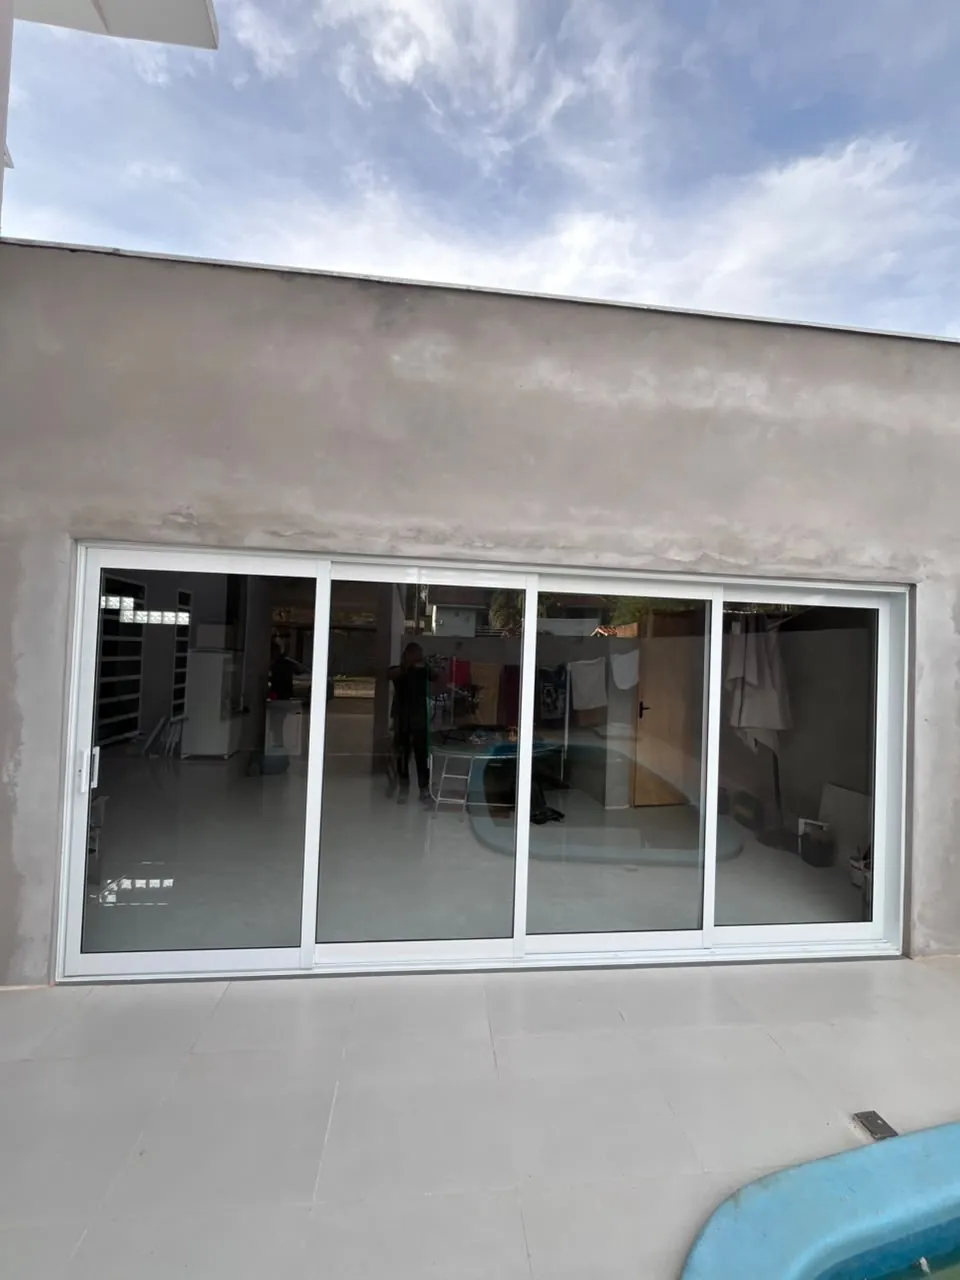
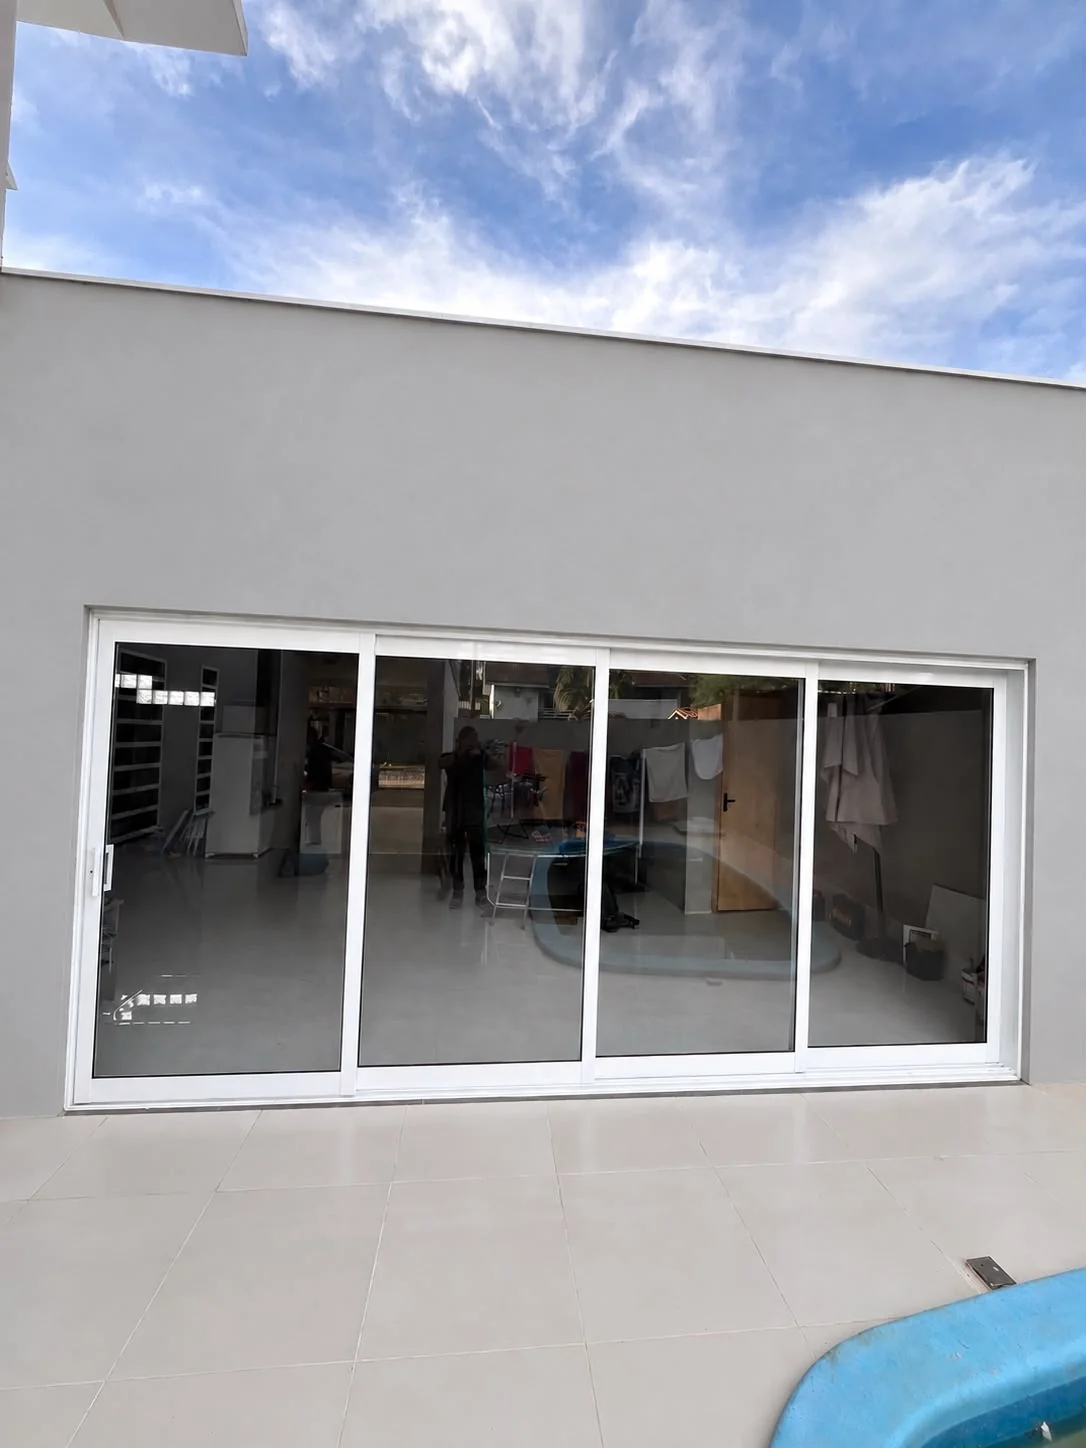
alterado iamgem de esquadrias

diff --git a/src/data/galeria.js b/src/data/galeria.js
@@ -195,13 +195,6 @@ const FOTOS = [
     alt: "Porta de correr em esquadria de alumínio branco com quatro folhas, instalada pela Braz Vidros",
   },
   {
-    arquivo: "Porta-em-esquadria-de-aluminio-2",
-    titulo: "Porta em esquadria de alumínio",
-    categoria: "portas",
-    alt: "Porta de correr em esquadria de alumínio branco vista de lado, instalada pela Braz Vidros",
-    destaque: true,
-  },
-  {
     arquivo: "Porta-de-aluminio",
     titulo: "Porta de alumínio",
     categoria: "portas",
